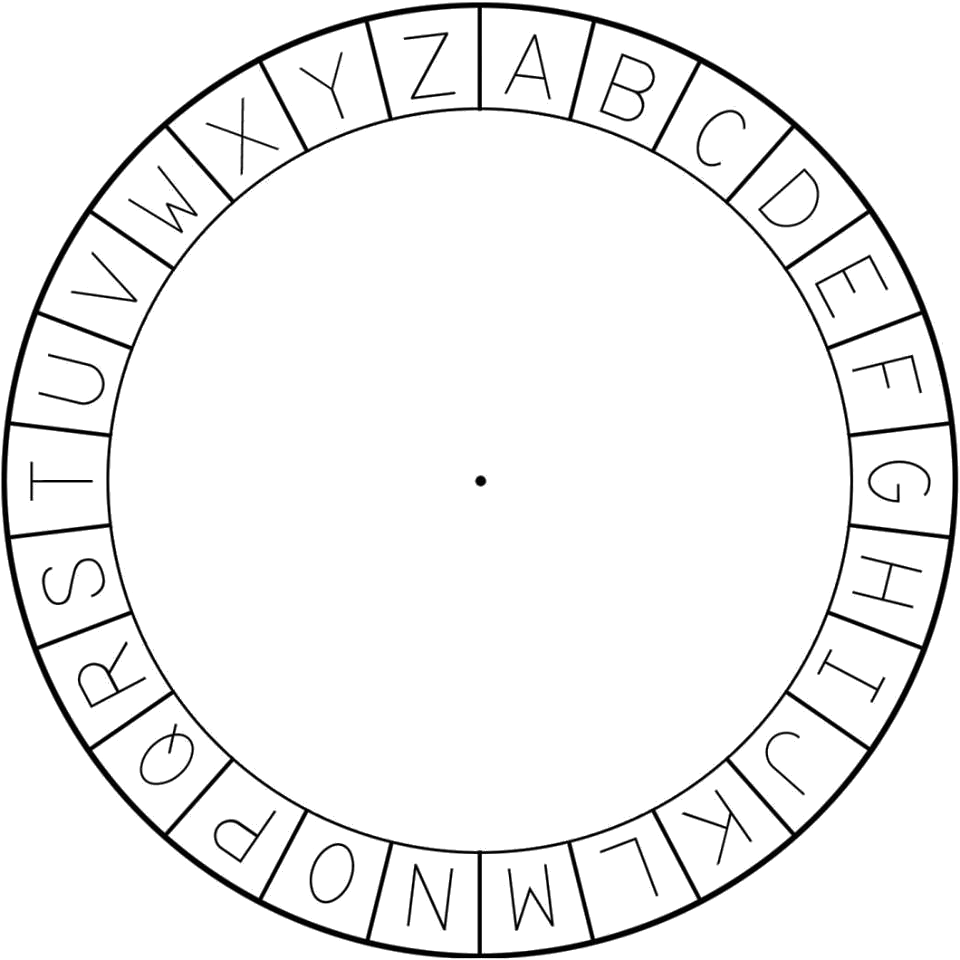
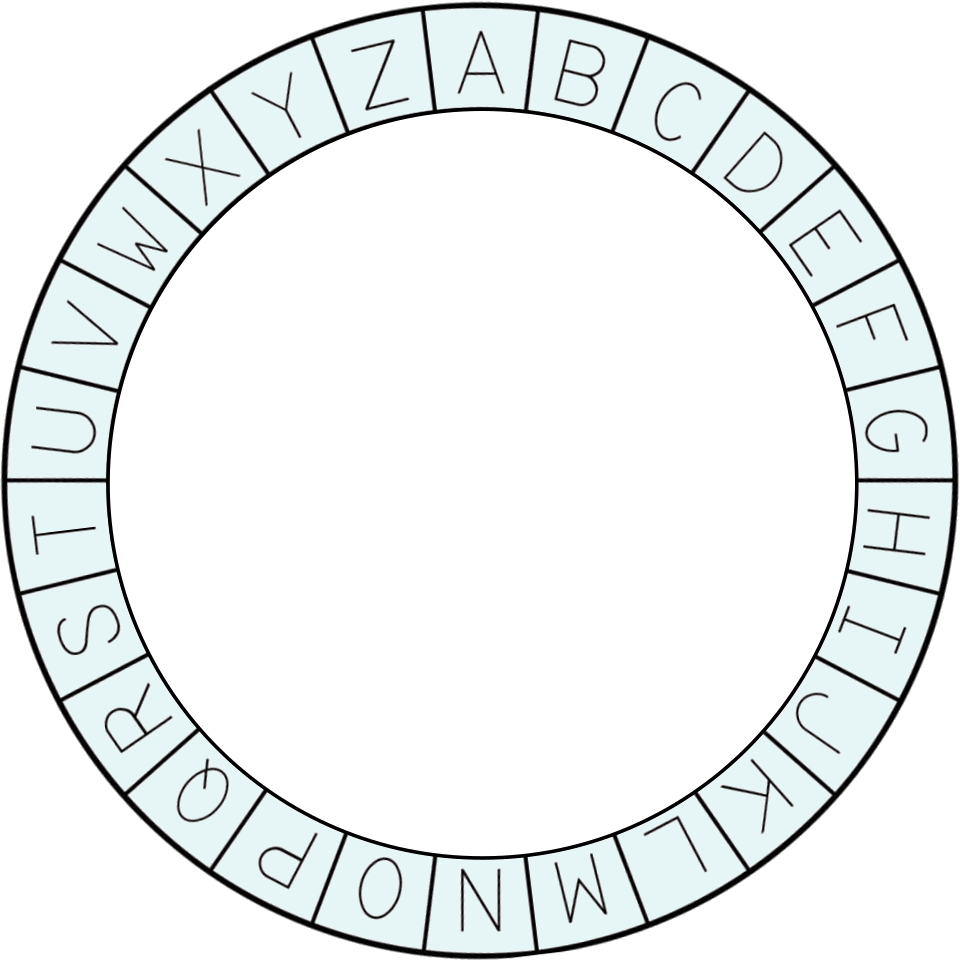
Added colors to the cipher wheel. Fixed quality

Changed region(s): [[0.0, 0.0, 1.0, 1.0]]

diff --git a/js/wheel.js b/js/wheel.js
@@ -235,10 +235,10 @@ var rotateWheel=function(elem, keyIsNumber){
 
 var createCipherWheel = function(elem, keyIsNum) {
     var outerWheel = document.createElement("img");
-    outerWheel.setAttribute("src", "../img/outerwheel2.png");
+    outerWheel.setAttribute("src", "../img/outerwheel.png");
     outerWheel.setAttribute("id", "outer-wheel");
     var innerWheel = document.createElement("img");
-    innerWheel.setAttribute("src", "../img/innerwheel2.png");
+    innerWheel.setAttribute("src", "../img/innerwheel.png");
     innerWheel.setAttribute("alt", "inner cipher wheel");
     innerWheel.setAttribute("id", "inner-wheel");
     var keyDisplay = document.createElement("div");

diff --git a/css/style.css b/css/style.css
@@ -77,11 +77,11 @@ textarea {
 }
 
 #inner-wheel {
-    margin-top: 11%;
-    left: 11%;
+    margin-top: 10%;
+    left: 10%;
     position: absolute;
     cursor: pointer;
-    width: 78%;
+    width: 80%;
     object-position: center;
     
 }
